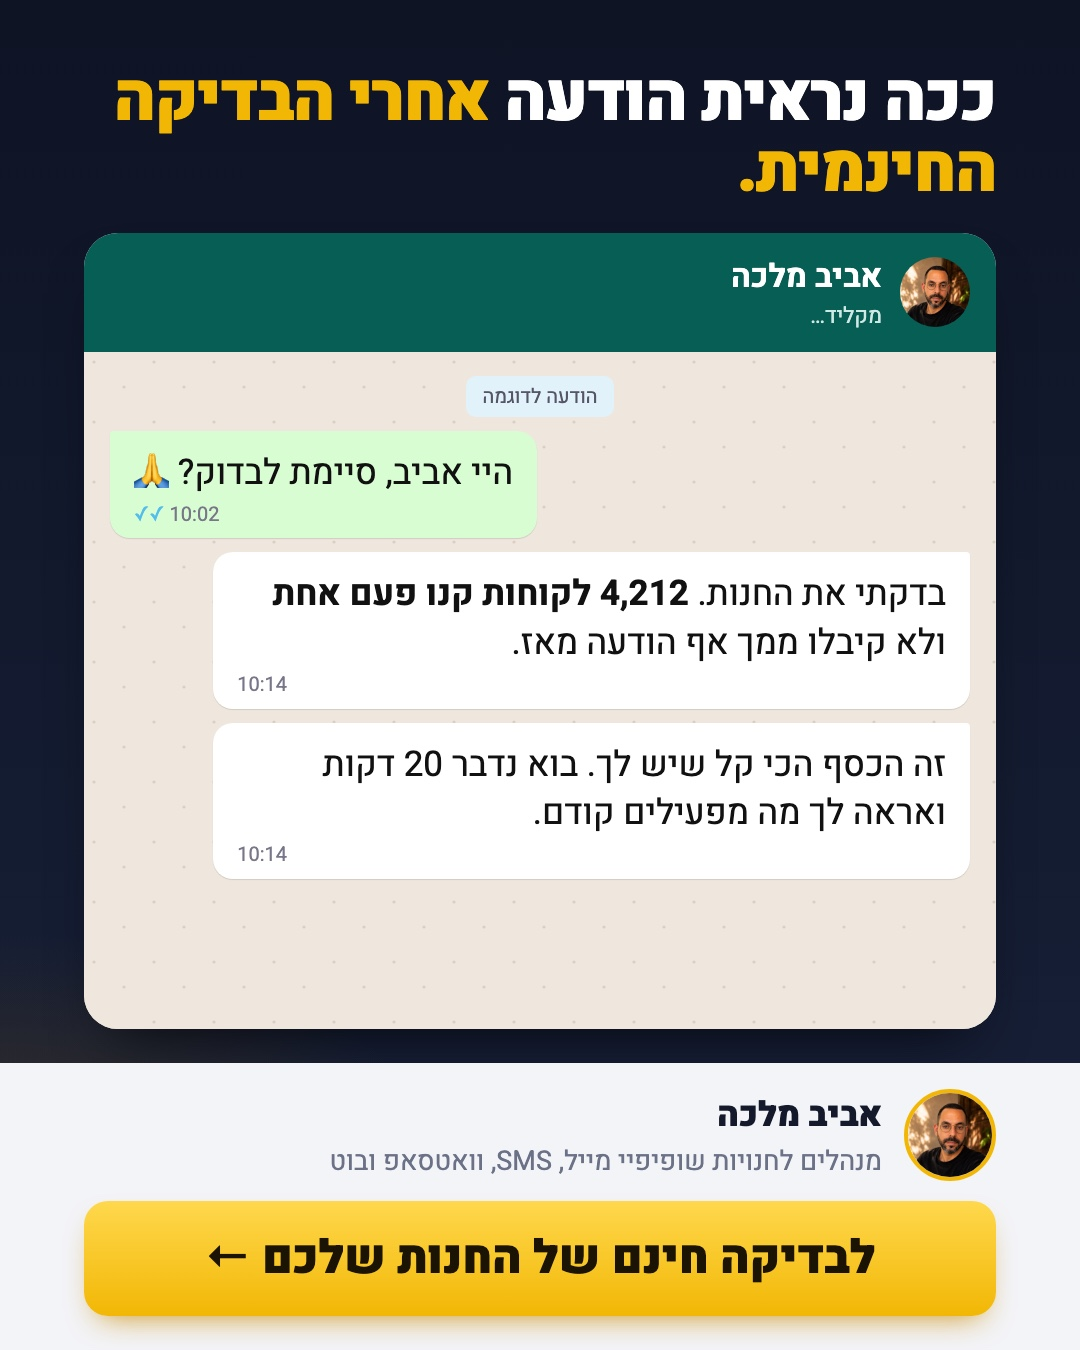
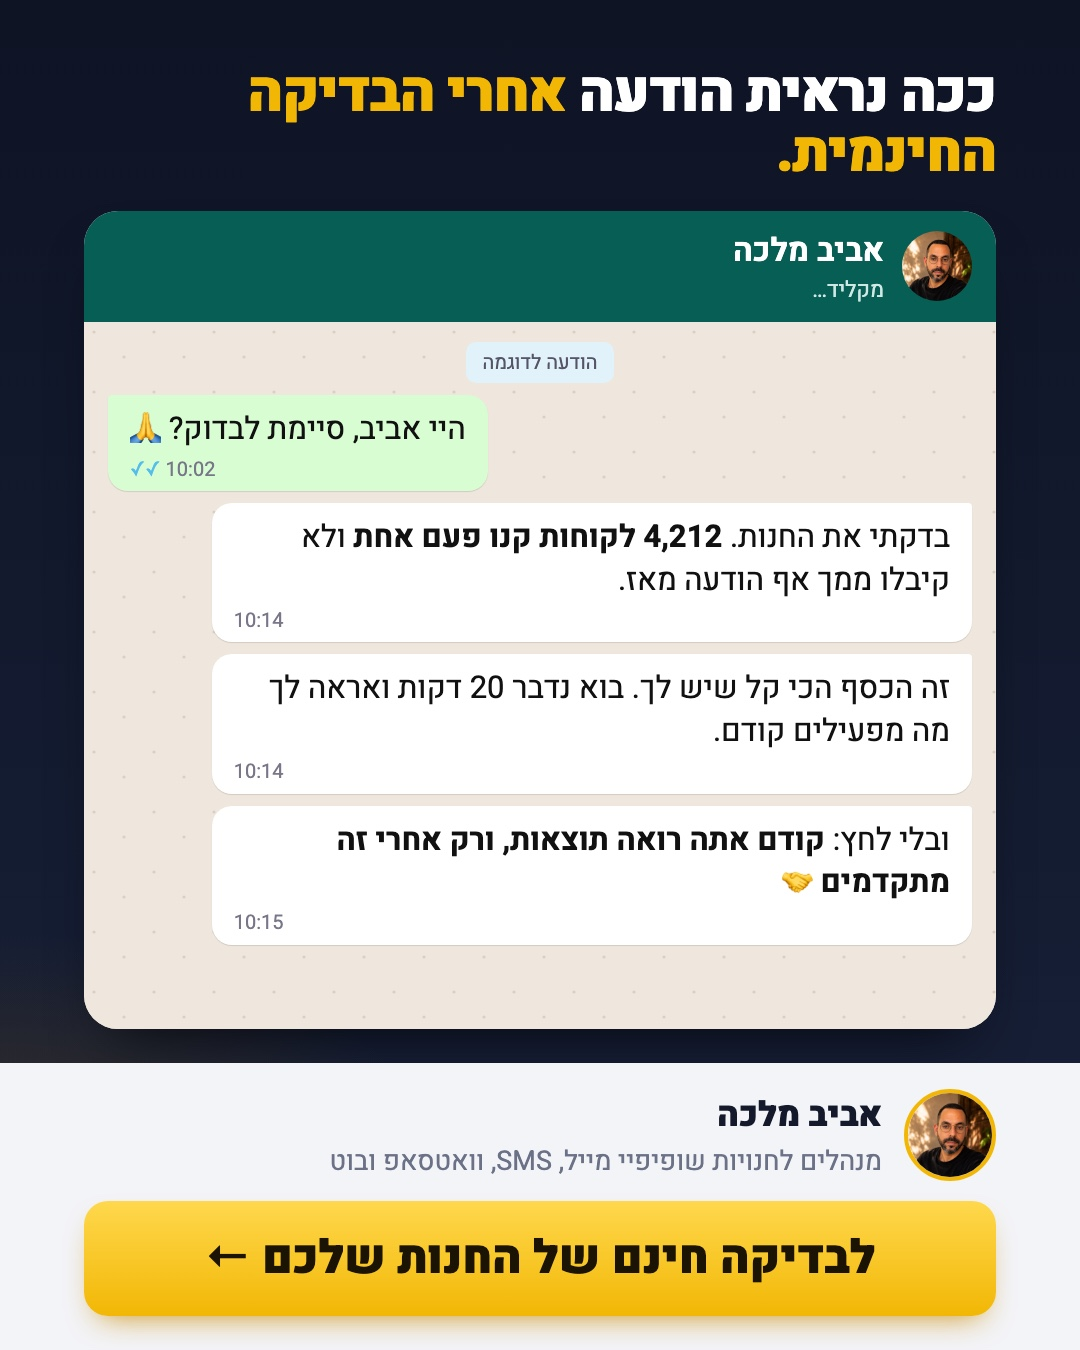
backend ad K: results-first message

Changed region(s): [[0.0611, 0.0311, 0.9167, 0.7156]]

diff --git a/king/ads2/ads.html b/king/ads2/ads.html
@@ -79,6 +79,7 @@ h1 em{font-style:normal;color:var(--gold)}
 .wm.me{background:#D9FDD3;align-self:flex-end;border-top-left-radius:4px}
 .wm small i{font-style:normal;color:#53bdeb}
 .ex{position:absolute;top:22px;left:84px;background:rgba(255,255,255,.12);color:#C9CEDD;font-size:22px;font-weight:700;padding:6px 16px;border-radius:999px}
+#K h1{font-size:56px !important}#K .wm{font-size:31px;padding:14px 22px 8px}#K .wab{gap:12px;padding:20px 24px}#K .wah{padding:16px 24px}
 </style>
 </head>
 <body>
@@ -176,7 +177,7 @@ h1 em{font-style:normal;color:var(--gold)}
 <div class="ab" id="K"><div class="top" style="padding-top:64px">
   <h1 style="font-size:66px;margin-top:0">ככה נראית הודעה <em>אחרי הבדיקה החינמית.</em></h1>
   <div class="wa"><div class="wah"><img src="../img/aviv_round.jpg"><div><b>אביב מלכה</b><span>מקליד…</span></div></div>
-  <div class="wab"><span class="wday">הודעה לדוגמה</span><div class="wm me">היי אביב, סיימת לבדוק? 🙏<small>10:02 <i>✓✓</i></small></div><div class="wm th">בדקתי את החנות. <b>4,212 לקוחות קנו פעם אחת</b> ולא קיבלו ממך אף הודעה מאז.<small>10:14</small></div><div class="wm th">זה הכסף הכי קל שיש לך. בוא נדבר 20 דקות ואראה לך מה מפעילים קודם.<small>10:14</small></div></div></div>
+  <div class="wab"><span class="wday">הודעה לדוגמה</span><div class="wm me">היי אביב, סיימת לבדוק? 🙏<small>10:02 <i>✓✓</i></small></div><div class="wm th">בדקתי את החנות. <b>4,212 לקוחות קנו פעם אחת</b> ולא קיבלו ממך אף הודעה מאז.<small>10:14</small></div><div class="wm th">זה הכסף הכי קל שיש לך. בוא נדבר 20 דקות ואראה לך מה מפעילים קודם.<small>10:14</small></div><div class="wm th">ובלי לחץ: <b>קודם אתה רואה תוצאות, ורק אחרי זה מתקדמים</b> 🤝<small>10:15</small></div></div></div>
 </div><div class="bot"><div class="who"><img src="../img/aviv_round.jpg"><div class="n"><b>אביב מלכה</b><span>מנהלים לחנויות שופיפיי מייל, SMS, וואטסאפ ובוט</span></div></div><div class="cta">לבדיקה חינם של החנות שלכם ←</div></div></div>
 
 <div class="ab" id="L"><div class="top" style="padding-top:64px">
